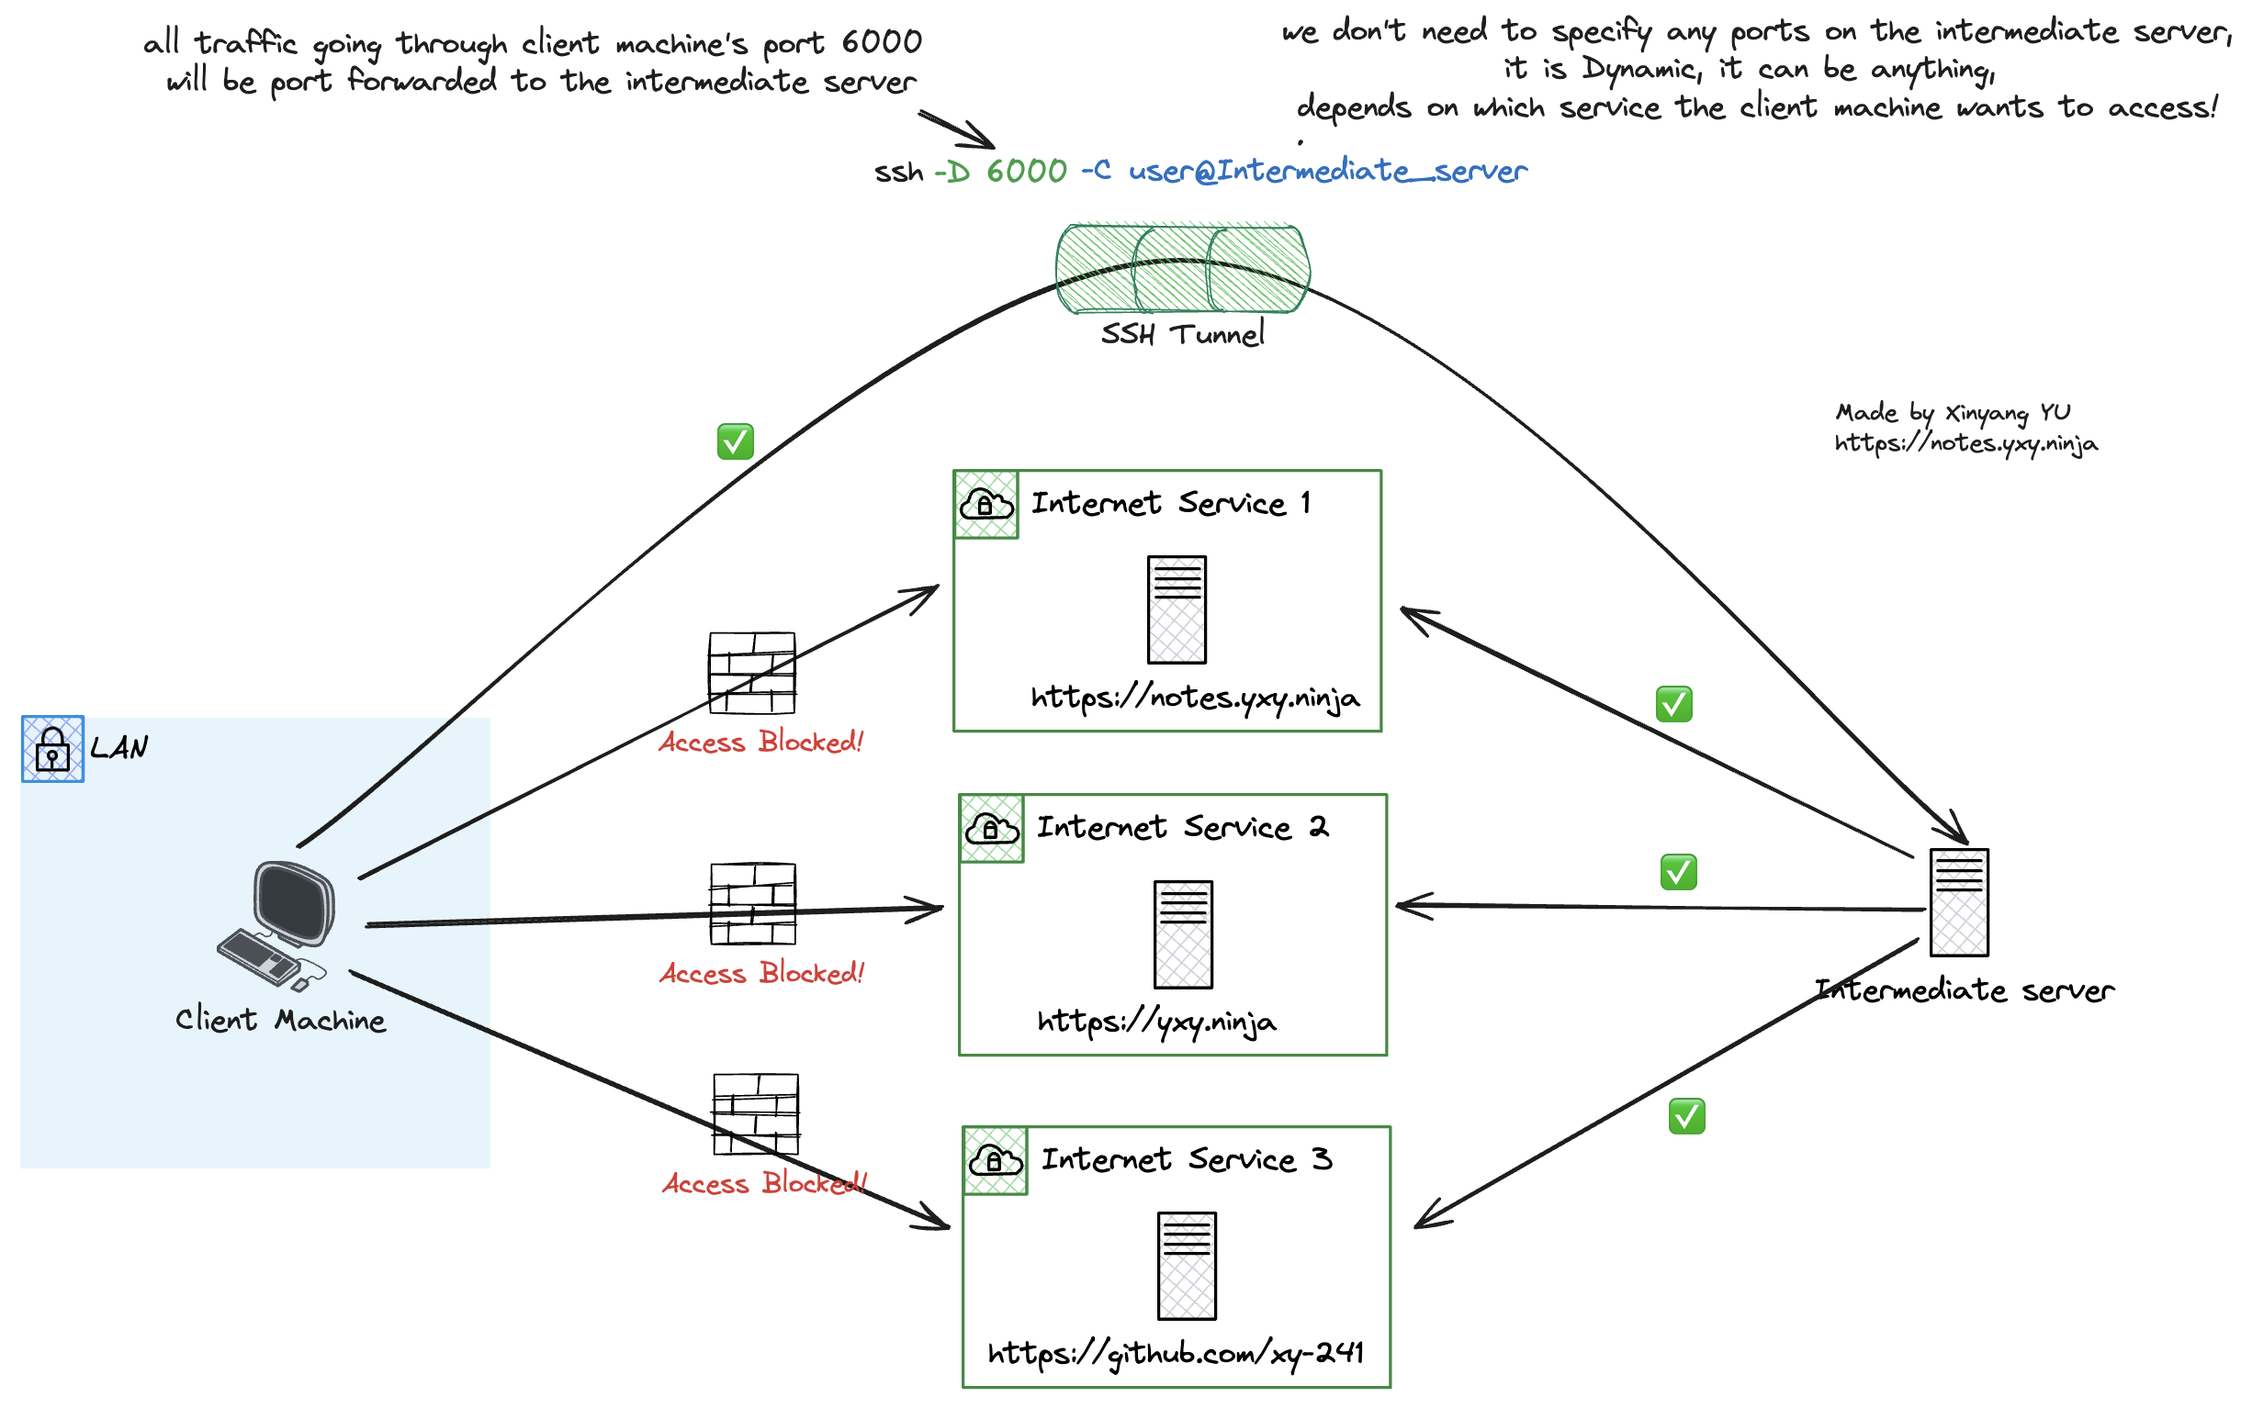
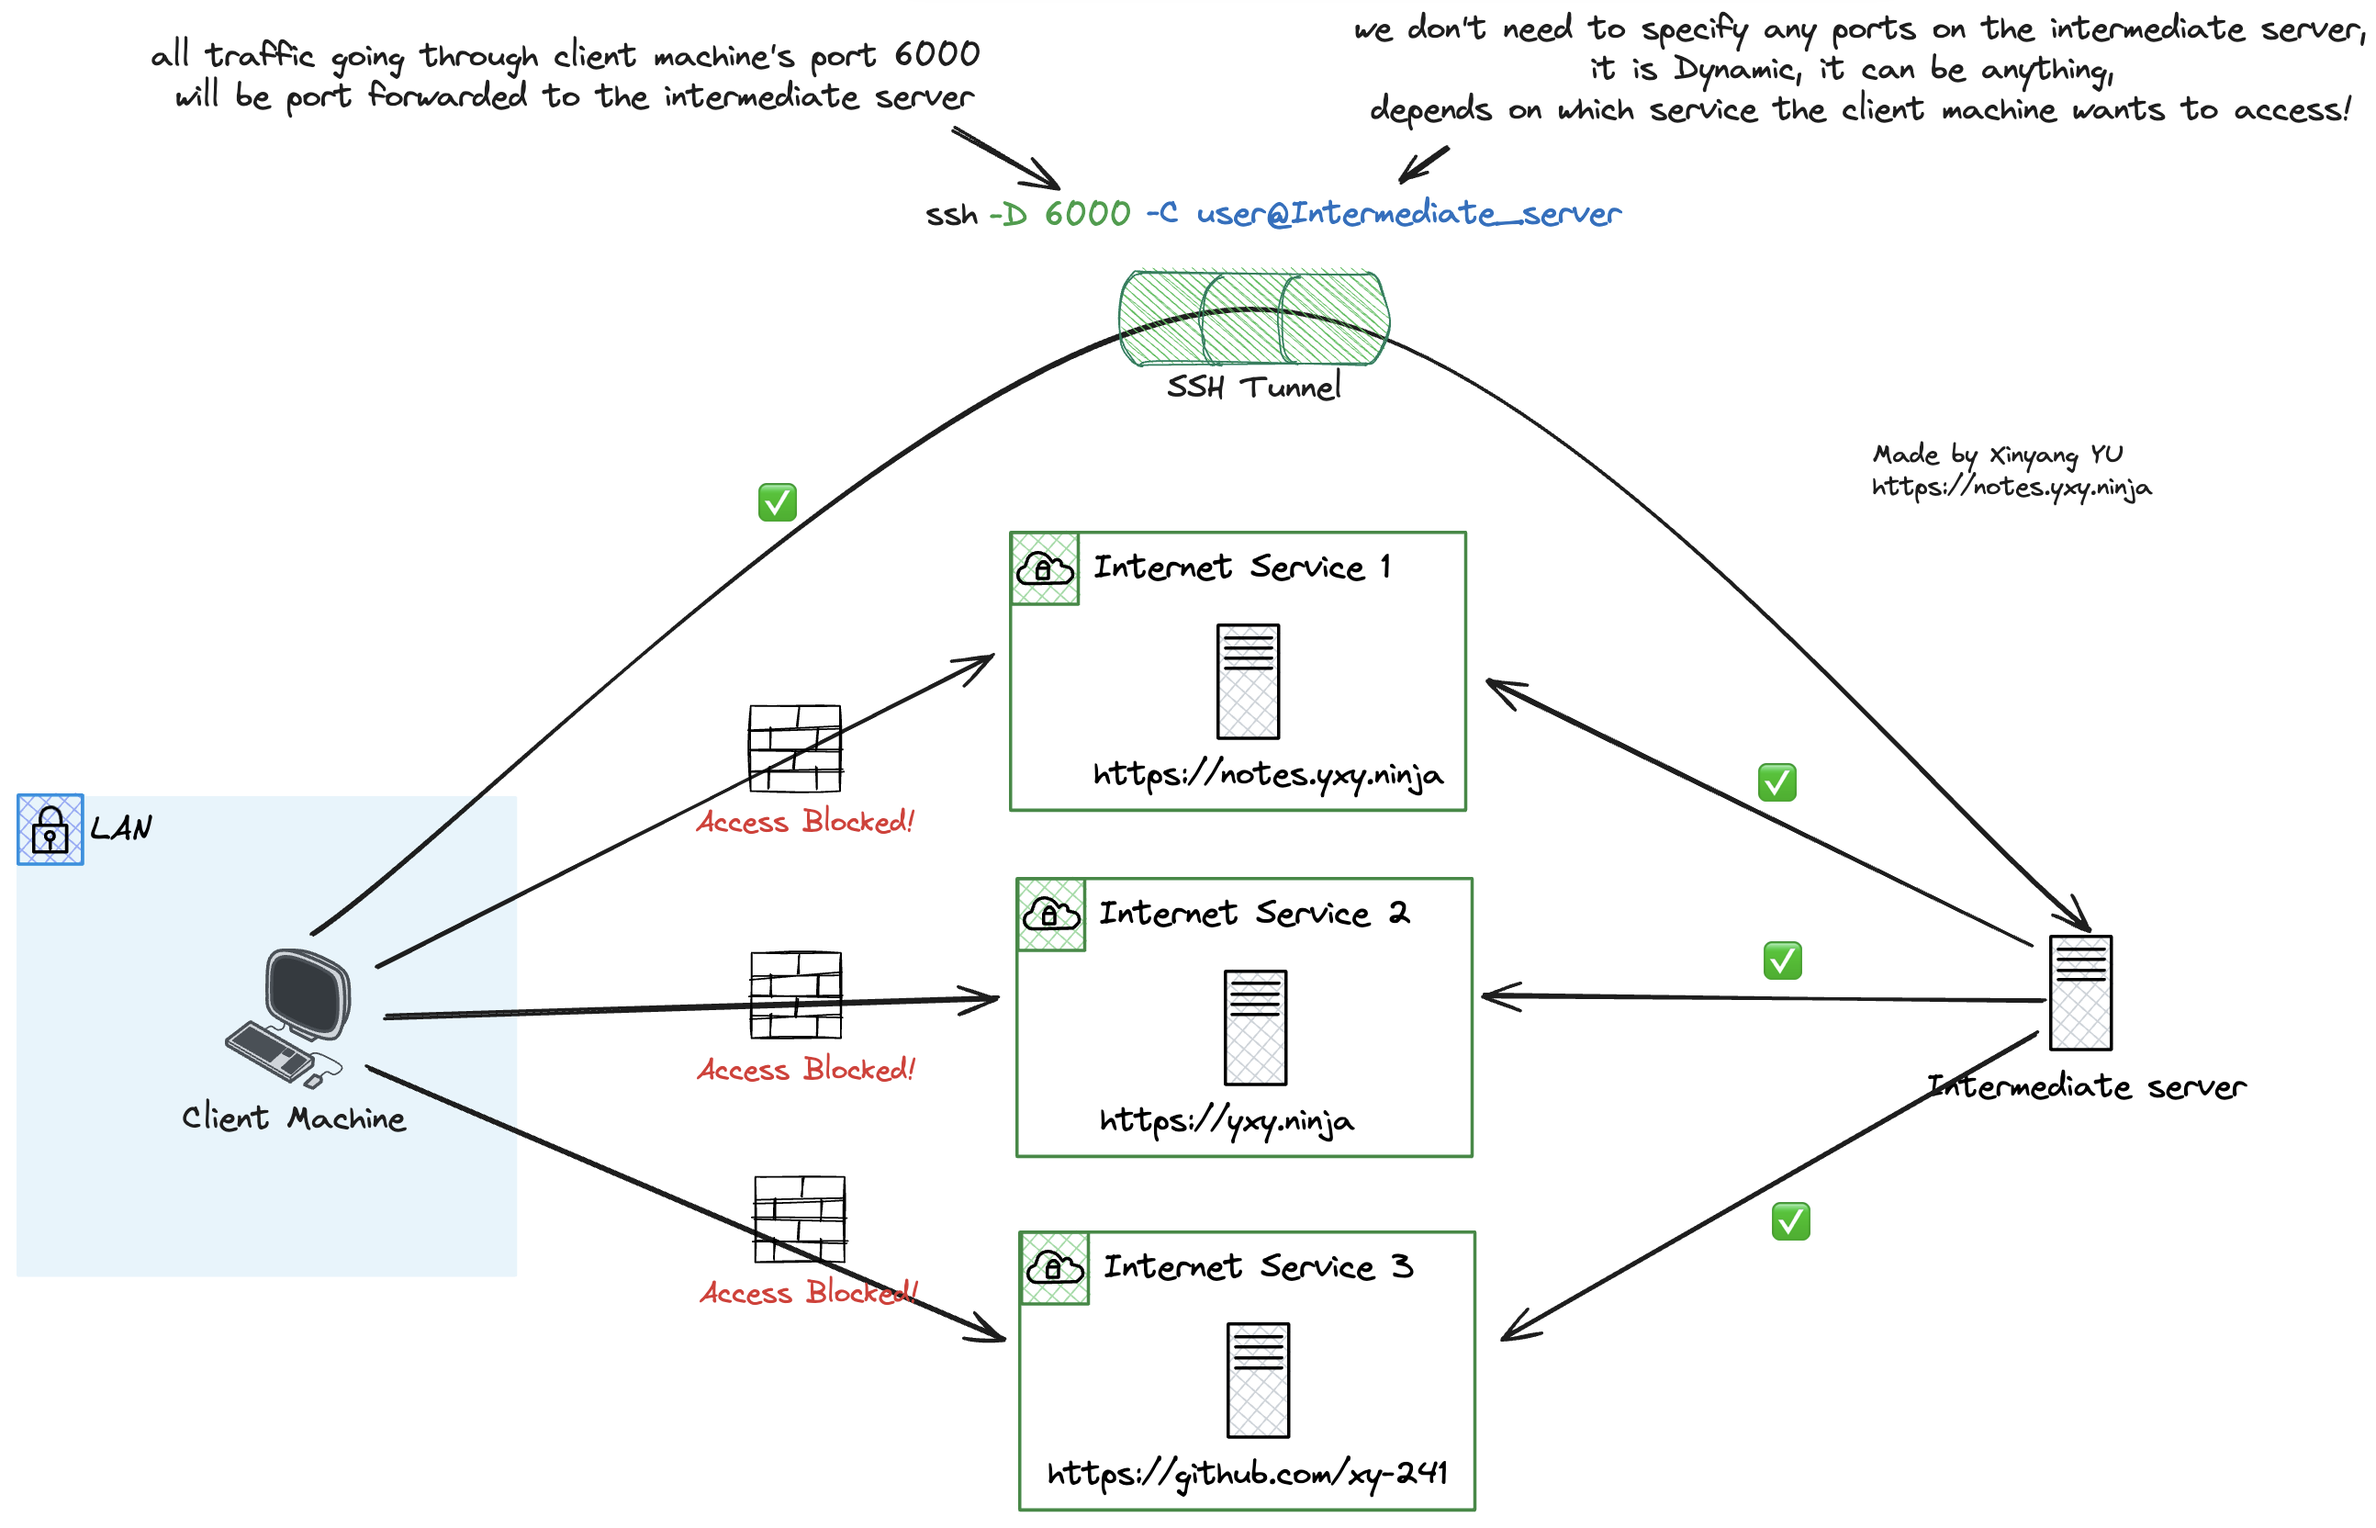
networking
- updating the ssh dynamic port forwarding diagram

diff --git a/content/Networking Concepts/Dynamic Port Forwarding.md b/content/Networking Concepts/Dynamic Port Forwarding.md
@@ -6,7 +6,7 @@ Author Profile:
 tags:
   - networking
 Creation Date: 2024-04-18, 23:01
-Last Date: 2024-05-01T23:36:09+08:00
+Last Date: 2024-05-01T23:51:07+08:00
 References: 
 draft: 
 description: 
